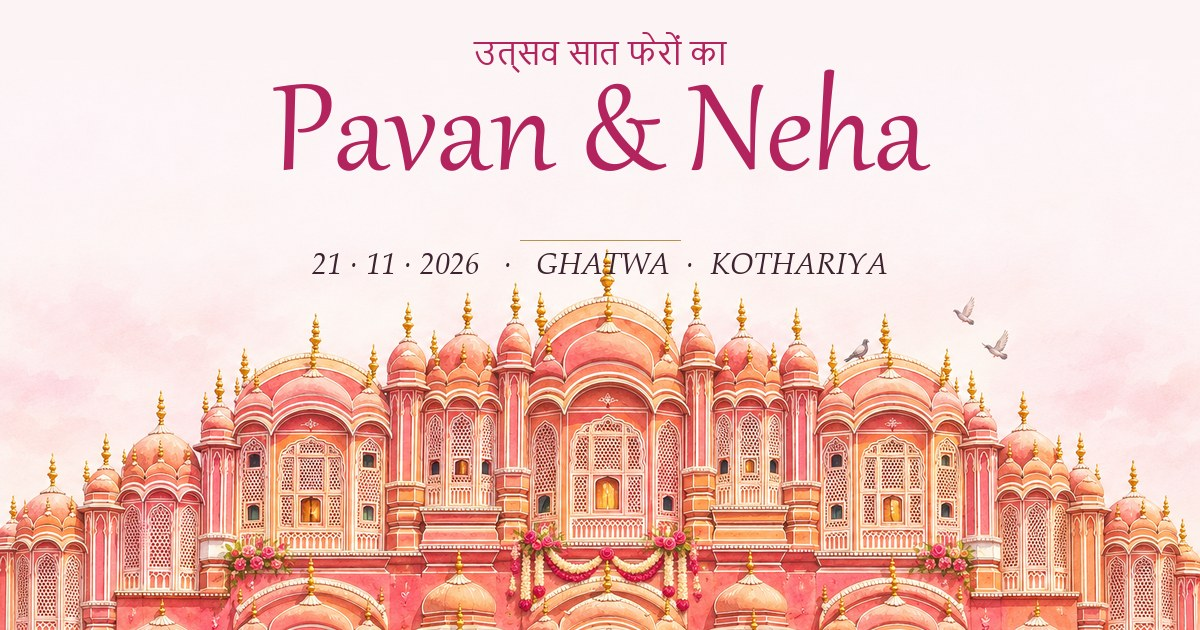
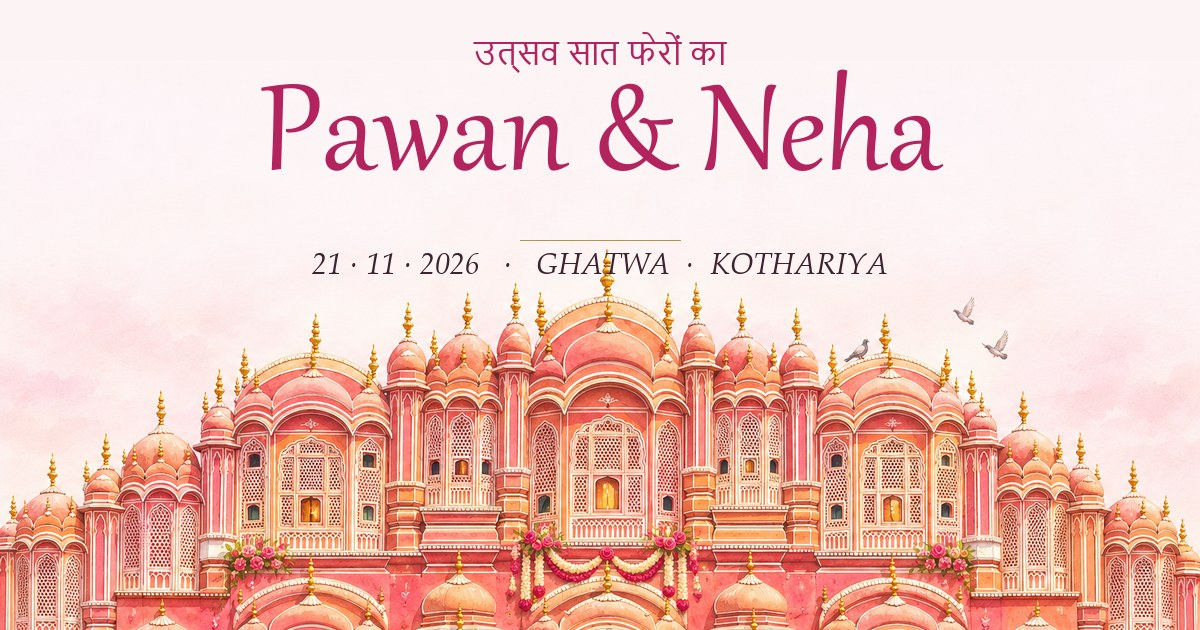
Spell the groom's name Pawan

Changed region(s): [[0.2158, 0.0905, 0.8017, 0.2714]]

diff --git a/src/app/layout.tsx b/src/app/layout.tsx
@@ -23,21 +23,21 @@ const tiroDevanagari = Tiro_Devanagari_Hindi({
 
 // Placeholder until the groom-side site has its own domain.
 const SITE_URL = process.env.NEXT_PUBLIC_SITE_URL ?? "http://localhost:3001";
-const TITLE = "Pavan & Neha · Wedding Invitation";
+const TITLE = "Pawan & Neha · Wedding Invitation";
 const DESCRIPTION =
-  "With the blessings of Shri Vinayak ji and Kuldevi Jamuvay Maa, the Shekhawat family warmly invites you to the wedding of Kunwar Pavan Singh and Neha Kanwar · 16–21 November 2026 · Ghatwa (Didwana-Kuchaman).";
-const OG_IMAGE = { url: "/og.jpg", width: 1200, height: 630, alt: "Pavan & Neha · 21 November 2026 · Ghatwa" };
+  "With the blessings of Shri Vinayak ji and Kuldevi Jamuvay Maa, the Shekhawat family warmly invites you to the wedding of Kunwar Pawan Singh and Neha Kanwar · 16–21 November 2026 · Ghatwa (Didwana-Kuchaman).";
+const OG_IMAGE = { url: "/og.jpg", width: 1200, height: 630, alt: "Pawan & Neha · 21 November 2026 · Ghatwa" };
 
 export const metadata: Metadata = {
   metadataBase: new URL(SITE_URL),
-  title: "Pavan & Neha · मंगल परिणयोत्सव",
+  title: "Pawan & Neha · मंगल परिणयोत्सव",
   description: DESCRIPTION,
-  applicationName: "Pavan & Neha",
+  applicationName: "Pawan & Neha",
   authors: [{ name: "bpss", url: "https://bpss.in" }],
   creator: "bpss.in",
   keywords: [
-    "Pavan weds Neha",
-    "Pavan Singh Shekhawat",
+    "Pawan weds Neha",
+    "Pawan Singh Shekhawat",
     "Neha Kanwar",
     "wedding invitation",
     "शुभ विवाह",
@@ -50,7 +50,7 @@ export const metadata: Metadata = {
   openGraph: {
     type: "website",
     url: "/",
-    siteName: "Pavan & Neha",
+    siteName: "Pawan & Neha",
     locale: "en_IN",
     title: TITLE,
     description: "16–21 November 2026 · Ghatwa, Didwana-Kuchaman",
@@ -62,7 +62,7 @@ export const metadata: Metadata = {
     description: "16–21 November 2026 · Ghatwa, Didwana-Kuchaman",
     images: [OG_IMAGE],
   },
-  appleWebApp: { title: "Pavan & Neha", statusBarStyle: "default" },
+  appleWebApp: { title: "Pawan & Neha", statusBarStyle: "default" },
   formatDetection: { telephone: false },
 };
 

diff --git a/src/components/Closing.tsx b/src/components/Closing.tsx
@@ -169,7 +169,7 @@ export function Footer() {
           {invitation.familyHi}
         </p>
         <p className="mt-2 text-lg italic text-ink/65">{invitation.family}</p>
-        <p className="mt-8 font-script text-5xl text-rani">Pavan &amp; Neha</p>
+        <p className="mt-8 font-script text-5xl text-rani">Pawan &amp; Neha</p>
         <p className="mt-2 text-sm uppercase tracking-[0.35em] text-gold">21 · 11 · 2026</p>
       </Reveal>
       <p className="absolute bottom-4 z-10 rounded-full bg-pearl/85 px-4 py-1.5 text-xs tracking-[0.2em] text-ink/70">

diff --git a/src/components/Envelope.tsx b/src/components/Envelope.tsx
@@ -86,7 +86,7 @@ export function Envelope() {
         </div>
 
         <div className="absolute inset-x-0 bottom-[9%] text-center">
-          <p className="font-script text-3xl text-rani">Pavan &amp; Neha</p>
+          <p className="font-script text-3xl text-rani">Pawan &amp; Neha</p>
           <p className="mt-1 text-[11px] uppercase tracking-[0.4em] text-gold">
             Tap to open
           </p>

diff --git a/src/data/wedding.ts b/src/data/wedding.ts
@@ -40,7 +40,7 @@ export const invitation = {
 };
 
 export const groom = {
-  name: "Pavan Singh",
+  name: "Pawan Singh",
   nameHi: "आयुष्मान कुँ. पवन सिंह",
   grandsonOfHi: "स्व. ठा.सा. प्रेमसिंह जी शेखावत",
   sonOfHi: "ठा.सा. प्रतापसिंह जी शेखावत",
